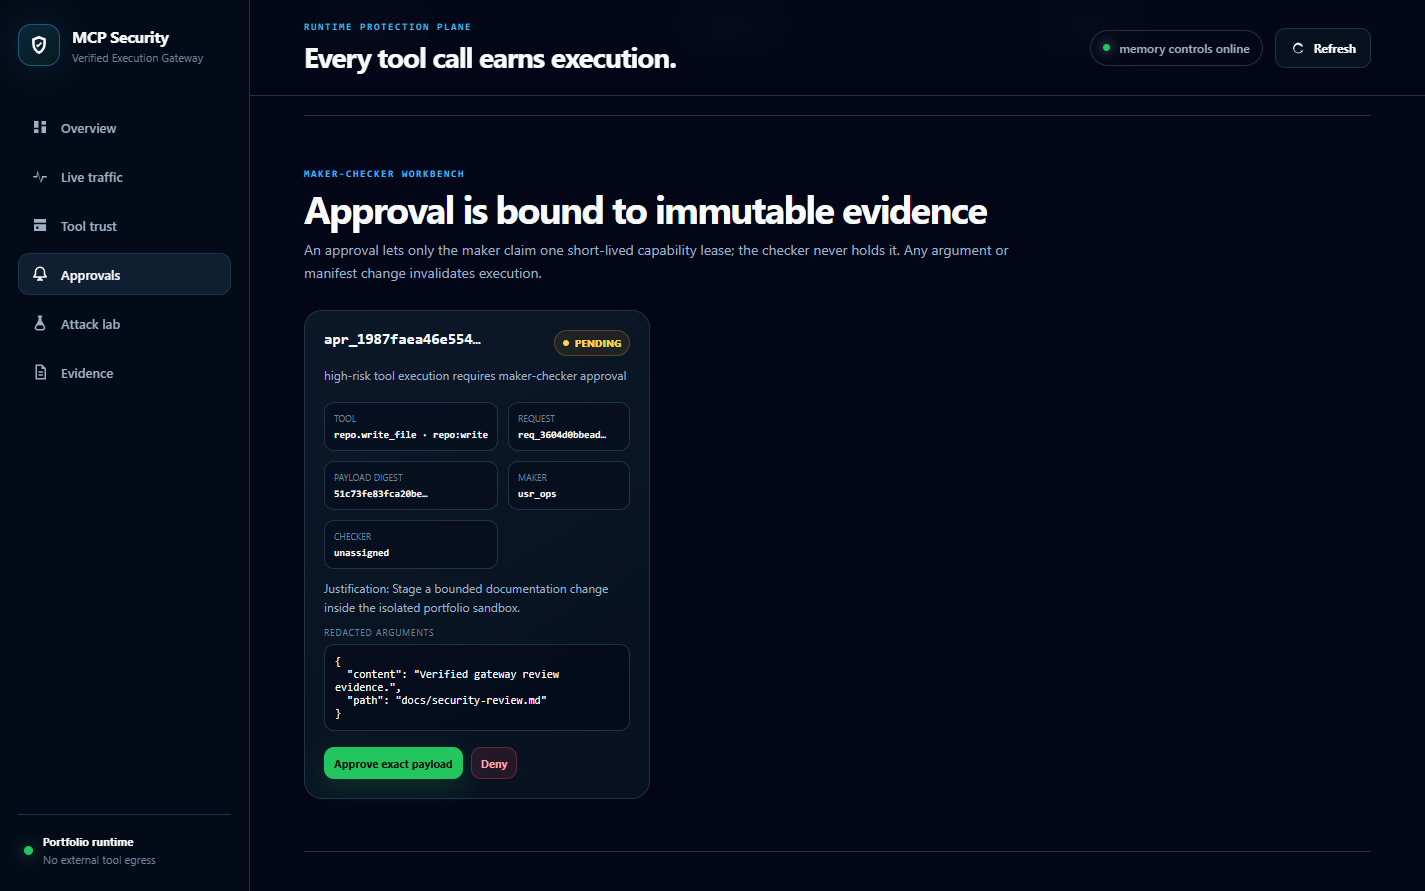
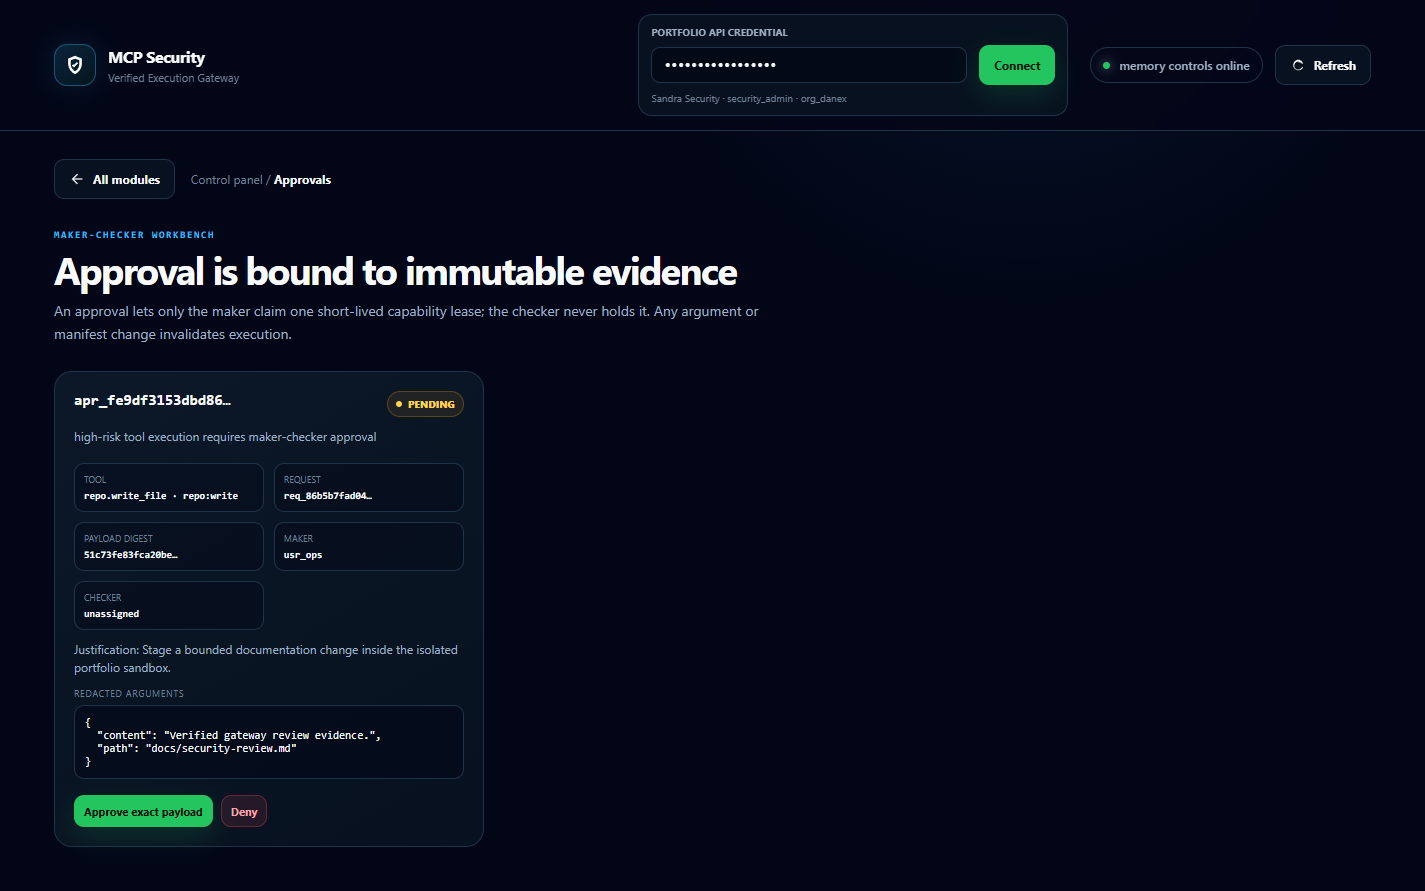
Refresh product screenshots and demo GIF for the module launcher
Regenerated from the running gateway on a clean demo database with the
presenter walkthrough, now navigated through the launcher tiles and the
All modules button instead of the removed sidebar.

- gateway-dashboard is now the launcher after the full walkthrough, with
  live status on every tile (4 requests, 0 pending, 5/5 Attack Lab,
  verified evidence chain)
- policy-enforcement, approval-workbench, attack-lab, and evidence-chain
  show one module each under the All modules bar; without the sidebar the
  full control trace fits on one row
- the demo GIF keeps the five-scene, two-second loop at 1200x750
- README hero alt text and proof-asset label describe the launcher

diff --git a/README.md b/README.md
@@ -13,7 +13,7 @@
 
 [Overview](#what-it-solves) · [Product Demo](#product-demo) · [Product Tour](#product-tour) · [Verified Execution](#verified-execution-flow) · [Connect a Client](#connect-your-client) · [API](docs/API_EXAMPLES.md) · [Threat Model](docs/THREAT_MODEL.md) · [Patch Notes](CHANGELOG.md) · [MIT License](LICENSE)
 
-![MCP Security Gateway operator console](docs/assets/gateway-dashboard.png)
+![MCP Security Gateway module launcher with live status for each module](docs/assets/gateway-dashboard.png)
 
 ## What It Solves
 
@@ -438,7 +438,7 @@ See [Threat Model](docs/THREAT_MODEL.md) and
 ## Proof Assets
 
 - animated product demo: [docs/assets/mcp-security-gateway-demo.gif](docs/assets/mcp-security-gateway-demo.gif)
-- operator dashboard: [docs/assets/gateway-dashboard.png](docs/assets/gateway-dashboard.png)
+- module launcher: [docs/assets/gateway-dashboard.png](docs/assets/gateway-dashboard.png)
 - policy enforcement: [docs/assets/policy-enforcement.png](docs/assets/policy-enforcement.png)
 - maker-checker approval: [docs/assets/approval-workbench.png](docs/assets/approval-workbench.png)
 - Attack Lab: [docs/assets/attack-lab.png](docs/assets/attack-lab.png)

diff --git a/CHANGELOG.md b/CHANGELOG.md
@@ -16,7 +16,10 @@ Significant changes to the MCP Security Gateway are documented here.
   module, and move focus to the module heading when a module opens;
 - add a brand favicon as a `data:` URI, removing the `favicon.ico` 404 from
   the browser console;
-- add a test that every tile opens exactly one existing module (62 tests).
+- add a test that every tile opens exactly one existing module (62 tests);
+- refreshed the product screenshots and demo GIF from a clean demo database:
+  the README hero is now the launcher with live status after the full
+  walkthrough, and each module frame shows the All modules bar.
 
 ## [0.3.0] - 2026-10-20
 
